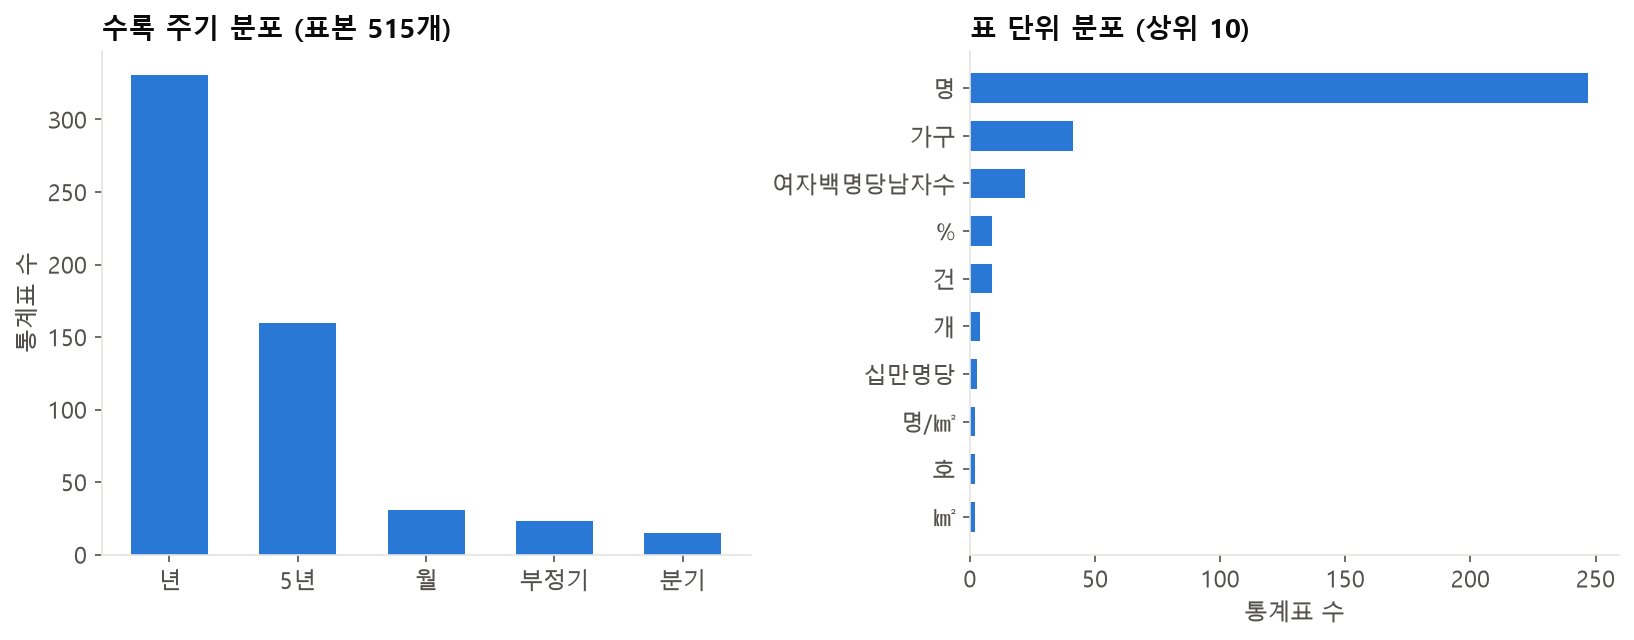
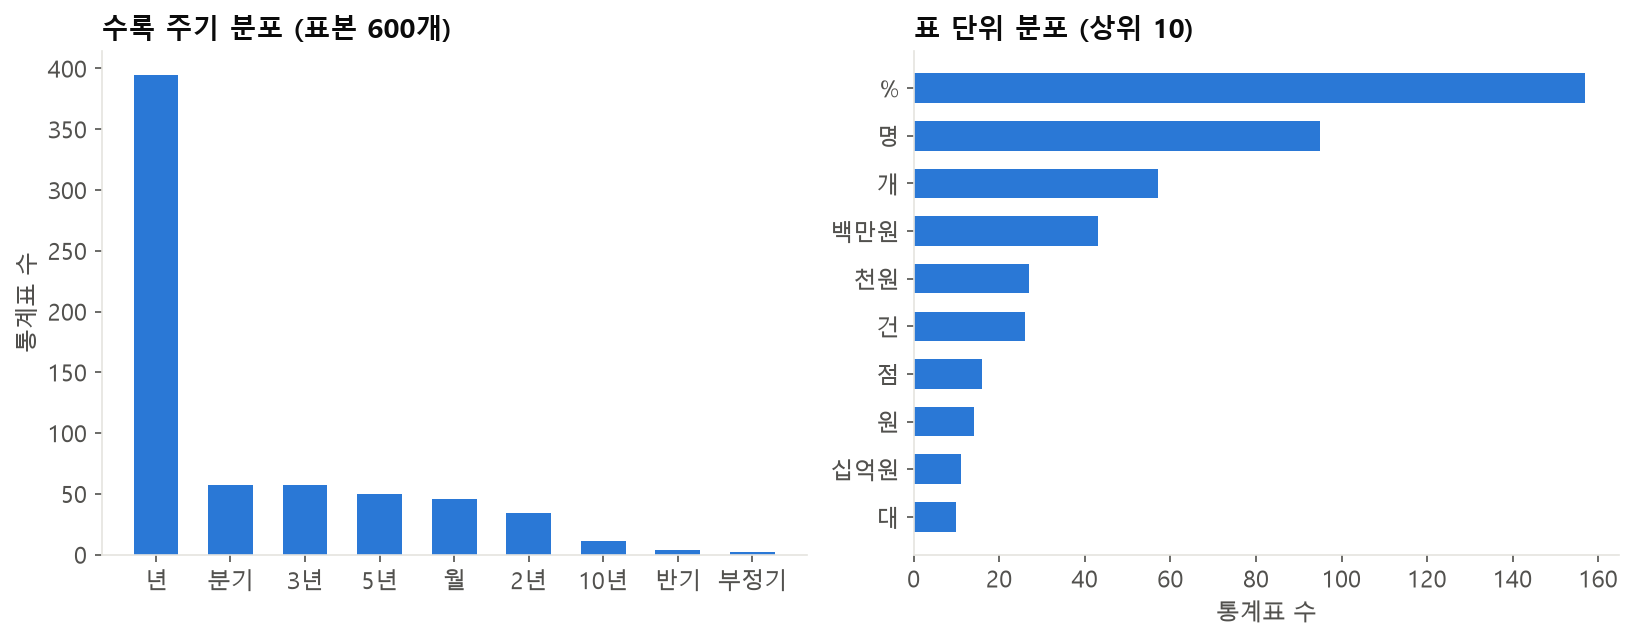
.

diff --git a/src/kosis_eda.py b/src/kosis_eda.py
@@ -3,7 +3,7 @@
 
 입력:
   data/kosis_catalog_v1.jsonl          (전체 통계표 265,094개, 트리 기반)
-  data/kosis_catalog_v2.jsonl          (메타 보강 표본 515개: 차원·항목·단위·주기)
+  data/kosis_catalog_v2_sample600.jsonl (메타 보강 표본 600개: 차원·항목·단위·주기)
   data/claims_v1.jsonl                 (뉴스 claim 구조화 결과, 대응 확인용)
 
 출력:
@@ -110,7 +110,7 @@ period_types = Counter()
 items_per = Counter()
 dim_value_counts = []
 n_v2 = 0
-for r in iter_jsonl(ROOT / "data" / "kosis_catalog_v2.jsonl"):
+for r in iter_jsonl(ROOT / "data" / "kosis_catalog_v2_sample600.jsonl"):
     n_v2 += 1
     dims = r.get("dimensions") or []
     dims_per[len(dims)] += 1
@@ -215,7 +215,7 @@ save(fig, "eda_fig04_dimensions.png")
 fig, (ax1, ax2) = plt.subplots(1, 2, figsize=(11, 4.4))
 pt = period_types.most_common()
 ax1.bar([k for k, _ in pt], [v for _, v in pt], color=BLUE, width=0.6)
-ax1.set_title("수록 주기 분포 (표본 515개)")
+ax1.set_title(f"수록 주기 분포 (표본 {n_v2}개)")
 ax1.set_ylabel("통계표 수")
 style_ax(ax1)
 

diff --git a/reports/EDA_주장구조화_스토리.md b/reports/EDA_주장구조화_스토리.md
@@ -2,7 +2,7 @@
 
 작성일: 2026-07-23
 생성 코드: `src/kosis_eda.py` → `reports/figures/eda_fig01~08*.png`, `reports/figures/eda_stats.json`
-데이터: `data/kosis_catalog_v1.jsonl`(전체 265,094표), `data/kosis_catalog_v2.jsonl`(메타 보강 표본 515표), `data/claims_v1.jsonl`(claim 17,686건)
+데이터: `data/kosis_catalog_v1.jsonl`(전체 265,094표), `data/kosis_catalog_v2_sample600.jsonl`(메타 보강 표본 600표), `data/claims_v1.jsonl`(claim 17,686건)
 
 ---
 
@@ -20,7 +20,7 @@
 - 목표: 뉴스 기사 속 수치 주장을 KOSIS 공식 통계로 사실검증
 - 뉴스 문장은 자연어, KOSIS는 API 파라미터(orgId, tblId, itmId, objL1...)로 조회하는 정형 데이터
 - **둘을 연결하는 중간 표현(스키마)을 설계하려면, 먼저 "KOSIS 표가 어떻게 생겼는지"를 알아야 함**
-- → 통계표 265,094개 전수 카탈로그 + 515개 표본 메타 보강으로 EDA 수행
+- → 통계표 265,094개 전수 카탈로그 + 600개 표본 메타 보강으로 EDA 수행
 
 ### Slide 2. 발견 ① 표는 깊은 계층 속에 숨어 있다 — `eda_fig01`
 
@@ -47,9 +47,10 @@
 ![차원 구조](figures/eda_fig04_dimensions.png)
 ![차원 값 개수](figures/eda_fig06_dim_value_counts.png)
 
-- 표의 83%가 **2개 이상의 차원**(성별 × 연령별 × 행정구역별 ...)을 가짐
-- 차원 하나의 값 개수는 중앙값 18개, 최대 **7,898개** — 표 하나가 수만 개 셀
-- 가장 흔한 차원: **성별, 연령별, 행정구역별** — 뉴스가 흔히 언급하는 단서와 정확히 일치
+- 표의 71%가 **2개 이상의 차원**(특성별 × 시도별 × 성별 ...)을 가짐 (표본 600개 기준)
+- 차원 하나의 값 개수는 중앙값 12개, 최대 **2,282개** — 표 하나가 수천 개 셀
+- 자주 등장하는 차원: **특성별·구분별** 같은 범용 축이 최다이고, **성별·시도별·행정구역별**도 상위권 —
+  뉴스가 흔히 언급하는 단서(성별·지역)와 그대로 맞물림
 - **→ 설계 반영**: claim 스키마에 `population_raw/norm`(모집단)과
   observation의 `dimension_json`을 둠. "여성 청년 실업률"이라는 문장에서
   성별=여성, 연령=청년을 구조화해 두면 표의 차원 축에 그대로 대응됨
@@ -58,8 +59,8 @@
 
 ![주기와 단위](figures/eda_fig05_period_units.png)
 
-- 수록 주기는 **년 / 5년 / 월 / 분기 / 부정기** 5종으로 수렴
-- 단위도 명, 가구, %, 건 등 소수 어휘로 수렴 (단 '여자백명당남자수' 같은 파생 단위 존재)
+- 수록 주기는 **년(최다) 중심**에 분기·월·3년·5년 등으로 이어지는 소수 표준 어휘로 수렴
+- 단위도 %, 명, 개, 백만원, 천원, 건 등 소수 어휘로 수렴 (표당 항목 최대 30종)
 - 뉴스의 "지난해", "올 1분기" 같은 상대 시점은 이 주기 체계로 번역돼야 API 조회 가능
 - **→ 설계 반영**: claim에 `period_type`(year/month/quarter), `time_start/time_end`(절대 시점 변환),
   `unit_raw/unit_norm`(단위 정규화) 필드를 둠 (`claim_normalizer.py`)
@@ -71,8 +72,9 @@
 
 - claim 17,686건 중 **증감률(39%) + 비교(13%) + 증감폭(3%)** — 절반 이상이 값 2개 이상을 요구하는 주장
 - 실제로 **claim의 54%가 다중 수치** 포함
-- 단위 어휘 비교: KOSIS 표는 절대량(명, 가구) 중심, 뉴스는 **%·원 중심** —
-  뉴스는 원자료가 아니라 **파생값(증감률)** 을 말한다는 뜻 → 단순 값 대조로는 검증 불가
+- 단위 어휘 비교: KOSIS 표는 %와 함께 **절대량·금액(명, 개, 백만원, 천원)** 이 폭넓게 분포하는 반면,
+  뉴스 claim은 **%·원에 극단적으로 쏠림** — 뉴스는 원자료보다 **파생값(증감률·비중)** 을 말한다는 뜻
+  → 표의 절대량 셀을 그대로 대조하는 것만으로는 검증 불가
 - **→ 설계 반영**:
   - claim 1건 : observation N건 구조 (`observations[]`) — 수치마다 시점·단위·차원을 따로 보존
   - `change_type`(단순수치/증감률/증감폭/비교/순위)과 `comparison_*`, `time_compare_*` 필드 —
@@ -85,7 +87,7 @@
 |---|---|---|---|
 | ① | 표 26.5만 개, 분류 6단계 계층 | fig01 | flat 카탈로그 + `doc_meta_text`(이름+경로) 검색 문서화 |
 | ② | 지역통계 60%, 기관 380곳 쏠림 | fig02, 03 | `source_scope`, `attributions`로 범위·출처 축 분리 |
-| ③ | 표의 83%가 다차원 격자 (성별·연령·지역) | fig04, 06 | `population_*`, `dimension_json`으로 차원 단서 구조화 |
+| ③ | 표의 71%가 다차원 격자 (특성·성별·지역) | fig04, 06 | `population_*`, `dimension_json`으로 차원 단서 구조화 |
 | ④ | 주기 5종·단위 소수 어휘로 수렴 | fig05 | `period_type`, `time_start/end`, `unit_norm` 정규화 |
 | ⑤ | 뉴스 claim 54%가 다중 수치, 증감률 최다 | fig07, 08 | claim:observation = 1:N, `change_type`, 비교 필드 |
 
@@ -93,14 +95,14 @@
 
 - 스키마는 "이론적으로 좋아 보여서"가 아니라 **양쪽 데이터의 분포를 보고 역설계**한 것
 - 이후 파이프라인(HCX 구조화 실험, Qdrant 색인, 하이브리드 검색+리랭커)은 모두 이 스키마 위에서 동작
-- 남은 과제: 메타 보강 표본 515개 → 전체 확대, 파생 단위('여자백명당남자수' 등) 정규화 사전 확장
+- 남은 과제: 메타 보강 표본 600개 → 전체 확대, 파생 단위 정규화 사전 확장
 
 ---
 
 ## 발표 시 예상 질문 대비
 
-**Q. 515개 표본으로 차원 구조를 일반화해도 되나?**
-A. 차원·항목 메타는 표별 API 호출(`getMeta`)이 필요해 인구 도메인 중심 표본으로 시작했다. 분류 깊이·주제·기관 분포는 전체 265,094개 기준이며, 차원 구조 통계는 "인구 관련 표 기준"이라고 한정해 말하면 안전하다.
+**Q. 600개 표본으로 차원 구조를 일반화해도 되나?**
+A. 차원·항목 메타는 표별 API 호출(`getMeta`)이 필요해 전체 26.5만 표 중 600개를 무작위 표본으로 뽑아 보강했다. 분류 깊이·주제·기관 분포는 전체 265,094개 전수 기준이고, 차원·주기·단위 통계는 "600개 표본 기준"이라고 한정해 말하면 안전하다. 표본이 특정 도메인에 치우치지 않아(특성별·업종별·시도별 등 다양) 전체 경향을 대표하기에 무리가 없다.
 
 **Q. 왜 표 이름 매칭으로 안 하고 스키마를 만들었나?**
 A. fig02가 근거 — 지역통계 60% 때문에 같은 이름의 표가 지역 단위로 수백 개 존재한다. 이름 매칭은 오매칭을 양산하고, 범위·시점·차원까지 맞아야 올바른 셀에 도달한다.
